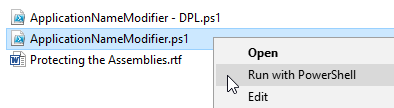
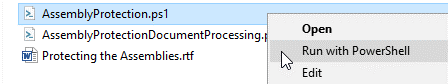
Common: Updated the Assembly Protection article.

diff --git a/licensing/protecting-telerik-assembly.md b/licensing/protecting-telerik-assembly.md
@@ -40,27 +40,37 @@ There are a couple of approaches that you can take:
 
 ## Use the PowerShell Scripts
 
-Telerik UI source code provides two power shell scripts that will allow you to easily apply the modifications needed to protect the Telerik assemblies without the need to open and edit any files. The scrips are located in the **Build\BuildInstructions\AssemblyProtection** folder of the suite's source code which can be downloaded as explained in {% if site.framework_name == 'WPF' %}[this article]({%slug download-product-files-wpf%}){% else %}[this article]({%slug download-product-files%}){% endif %}. 
+In order to protect the dlls with the powershell scripts you can follow these general steps (the __Instructions__ section below goes into more depth about the steps): 
 
-The available scripts are: 
-
-* **ApplicationNameModifier.ps1**: Uncomments the **ValidatePassPhrase()** method call and changes the **ApplicationName** in the **Core\Controls\Common\AssemblyProtection.cs** file with the provided one. 
-
-* **ApplicationNameModifier - DPL.ps1**: Uncomments the **ValidatePassPhrase()** method call and changes the ApplicationName in the **Documents\Licensing\AssemblyProtection.cs** file with the provided one.
+__1.__	Execute the __AssemblyProtection.ps1__ and __AssemblyProtectionDocumentProcessing.ps1__ (if you are using the Documents Processing library) scripts.  
+__2.__	Take the generated Telerik.Windows.Controls and Telerik.Windows.Documents.Core dlls (or their corresponding NuGet packages) and download all of the other assemblies that you need from your [telerik account](https://www.telerik.com/account/my-downloads).  
+__3.__	Distribute the dll/NuGet files with your application.  
 
 ### Instructions
 
-1. Right click on the needed script and click Run with **PowerShell** menu item
+The Telerik UI source code provides two power shell scripts located in the __Build\BuildInstructions\AssemblyProtection__ folder that will allow you to easily build the Telerik.Windows.Controls and Telerik.Windows.Documents.Core (necessary only if you use the Document Processing library) dlls and include your application name in them. Those assemblies are the only ones that contain the assembly protection mechanism and they are the only ones that need to be built in order to protect the Telerik UI assemblies. After building them, you can download the other dlls that you need from your [telerik account](https://www.telerik.com/account/my-downloads).  
+* __AssemblyProtection.ps1__: Changes the ApplicationName in the Core\Controls\Common\AssemblyProtection.cs file with the provided one. Builds the Telerik.Windows.Controls dll and its NuGet package (optionally).  
+* __AssemblyProtectionDocumentProcessing.ps1__: Changes the ApplicationName in the Documents\Licensing\AssemblyProtection.cs file with the provided one. Builds the Telerik.Windows.Documents.Core dll and its NuGet package (optionally).  
 
+__1.__	Right click on the needed script and click Run with PowerShell menu item:  
 	![run script with PowerShell](images/installation-powershell-image1.png)
+> If you don’t have the “Run with PowerShell” option, you can also open the PowerShell console, navigate to the BuildInstructions directory and execute the script(s).
 
-2. Enter the new **ApplicationName** when prompted: 
+__2.__	When running the scripts, you will be asked to enter the following:
 
-	![change the application name](images/installation-powershell-image2.png)
+* __Application Name__: This should be the name of your application in which the Telerik UI dlls will be distributed.
+* __Target Framework__: You should specify whether you want to build the WPF or the Silverlight dll and Nuget (optionally). Type “wpf” for WPF and “sl” for Silverlight.
+* __Binary Type (Xaml or NoXaml)__: The type of dlls that you want to use. For more information about the differences, read the following article: [Xaml vs NoXaml]({%slug xaml-vs-noxaml%}).  
 
-3. Rebuild the Telerik UI assemblies using one of the approaches explained in the source code build instructions (located in the **Build\BuildInstructions** folder). 
+> This option will not be available when building the Telerik.Windows.Documents.Core dll with the __AssemblyProtectionDocumentProcessing.ps1__ script.  
 
-4. In your application resources **App.xaml** create a string resource with key __"Telerik.Windows.Controls.Key"__ and value equal to the value of the ApplicationName defined in **step 2**:
+* __Release Date__: You should specify a release date in the following format (MM/DD/YYYY) that matches the release date of the Telerik UI dlls that you are going to distribute. For example, if the version of the dlls is 2019.3.917, you should use 09/17/2019. You can find out how to extract a release date from the version number [here]({%slug installation-installing-lib%}#version-number-breakdown).  
+
+> The version of the Telerik.Windows.Controls dll and the version of the Telerik.Windows.Documents.Core dll can be different. Before building each one, download these dlls from your [telerik account](https://www.telerik.com/account/my-downloads) and check their versions.  
+
+* __Build Nuget package__: If you are distributing NuGet packages, you can build them using the scripts. The nuget packages will be created in the BuildInstructions\AssemblyProtection\NugetOutput directory. Type “y” to create the package and “n” to skip this. 
+
+__3.__	In your application’s resources (App.xaml) create a string resource with key "Telerik.Windows.Controls.Key" and value equal to the value of the Application Name defined in step 2:  
 
 #### __[XAML] Example 1: Merging the application key resource__ 	
 {{region protecting-telerik-radcontrols-assembly_5}}
@@ -74,6 +84,19 @@ The available scripts are:
 	        </Application.Resources>
 	</Application>
 {{endregion}}
+
+__4.__	Once you have executed the script(s) you can take the assemblies generated in the __Binaries__ directory. Here are the locations based on whether WPF/SL and xaml/noxaml was chosen.
+* __WPF and xaml__ -> Binaries\WPF40\Dev and Binaries\WPF45\Dev
+* __WPF and noxaml__ -> Binaries\WPF40.NoXaml\Dev and Binaries\WPF45.NoXaml\Dev
+
+> Both the .Net 40 and .Net 45 versions will be available when running the AssemblyProtection.ps1 script that builds the Telerik.Windows.Controls dll.
+
+* __Silverlight and xaml__ -> Binaries\Silverlight5\Dev
+* __Silverlight and noxaml__ -> Binaries\Silverlight5.NoXaml\Dev
+
+> If you have also rebuilt the NuGet package(s), you can find them in the __BuildInstructions\AssemblyProtection\NugetOutput__ directory.
+
+You can distribute the __Telerik.Windows.Controls__ and __Telerik.Windows.Documents.Core__ dlls after running the scripts along with the other Telerik UI dlls that you need. You can download the other dlls from your [telerik account](https://www.telerik.com/account/my-downloads).  
 
 ## Building Telerik Assemblies from Source Code 
 
